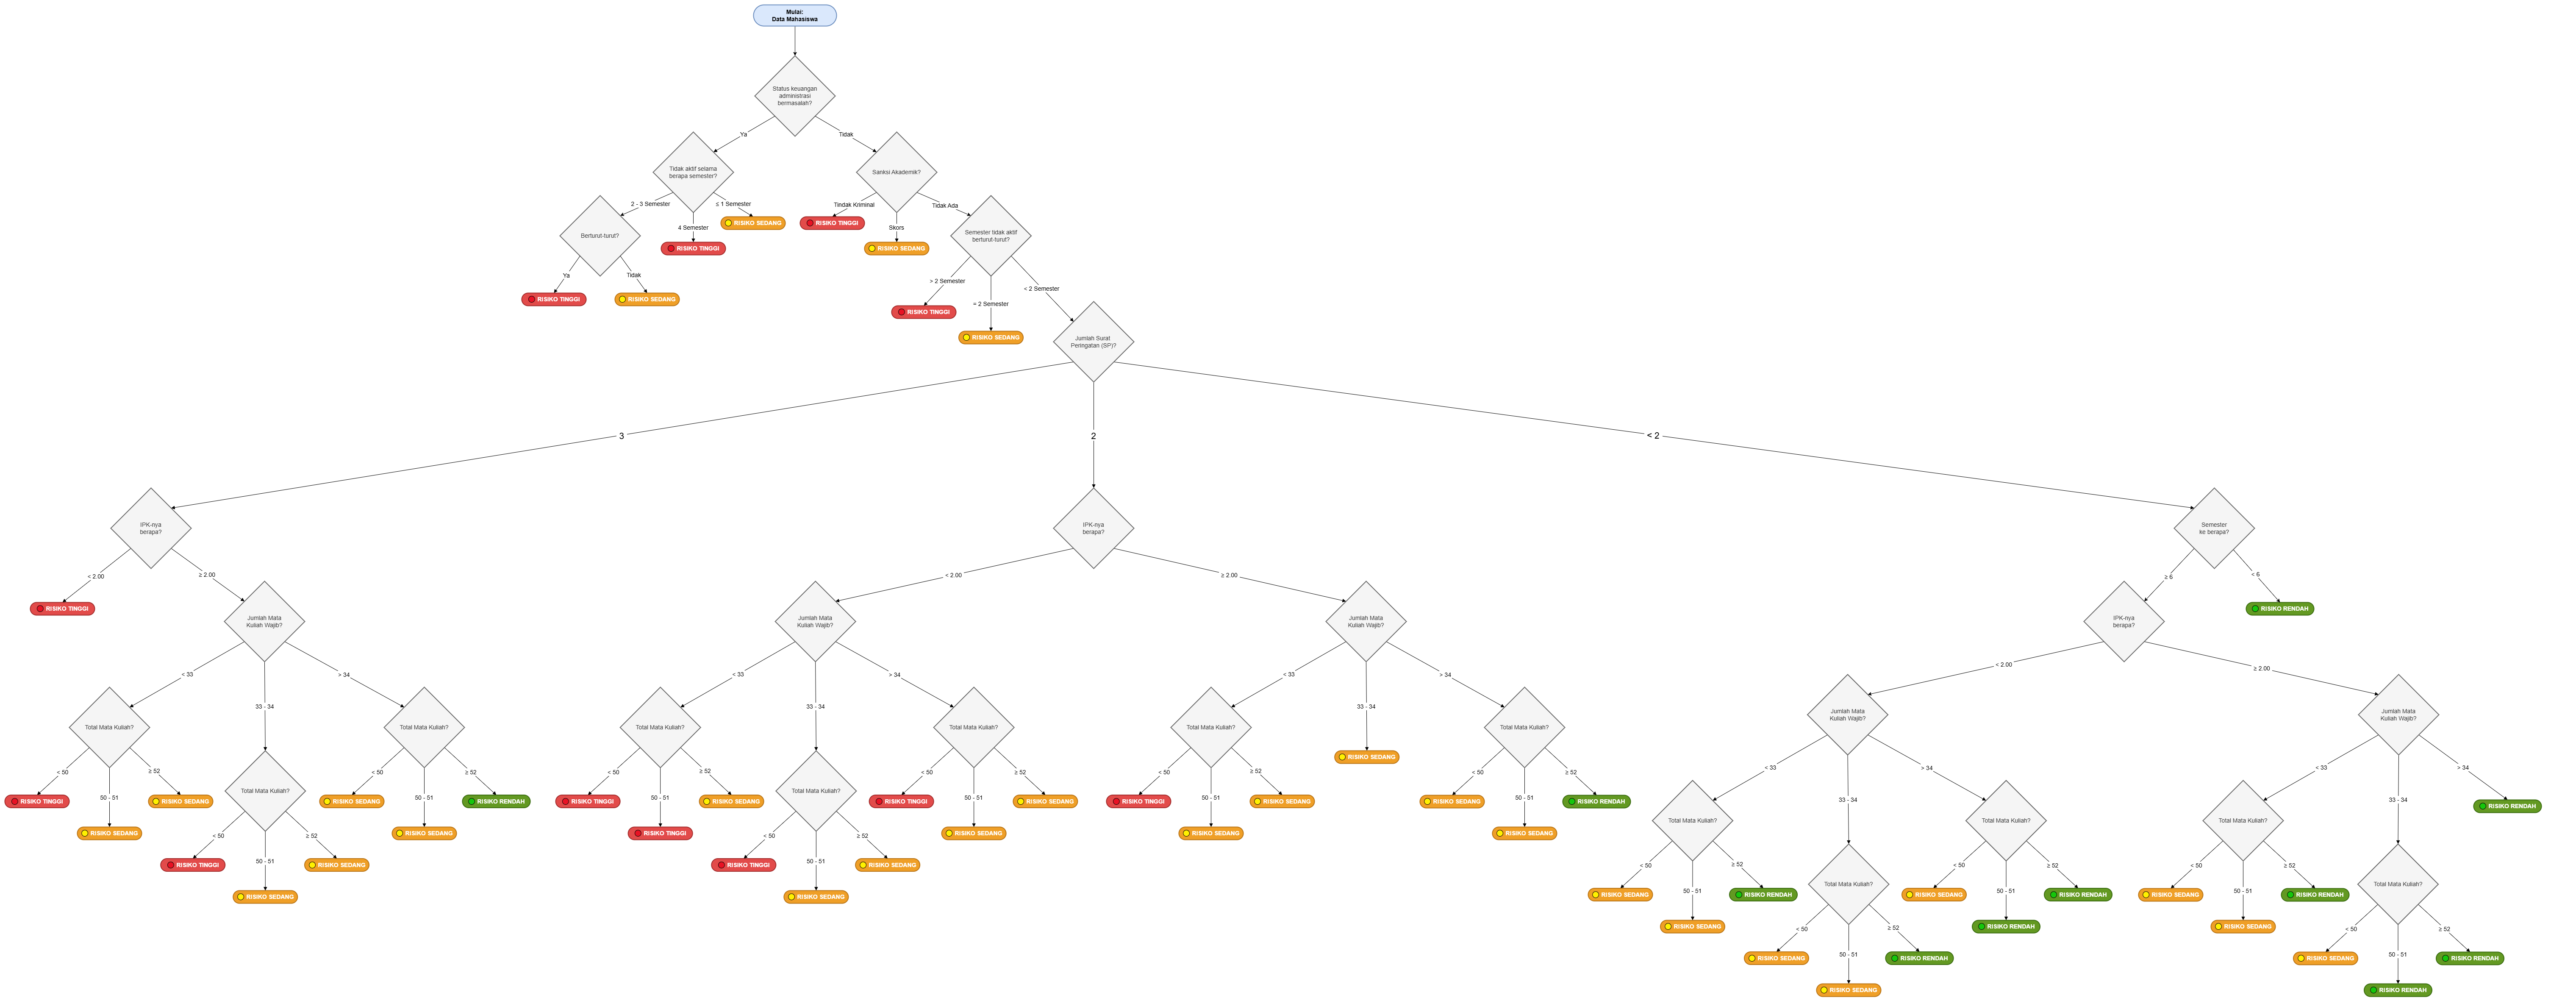
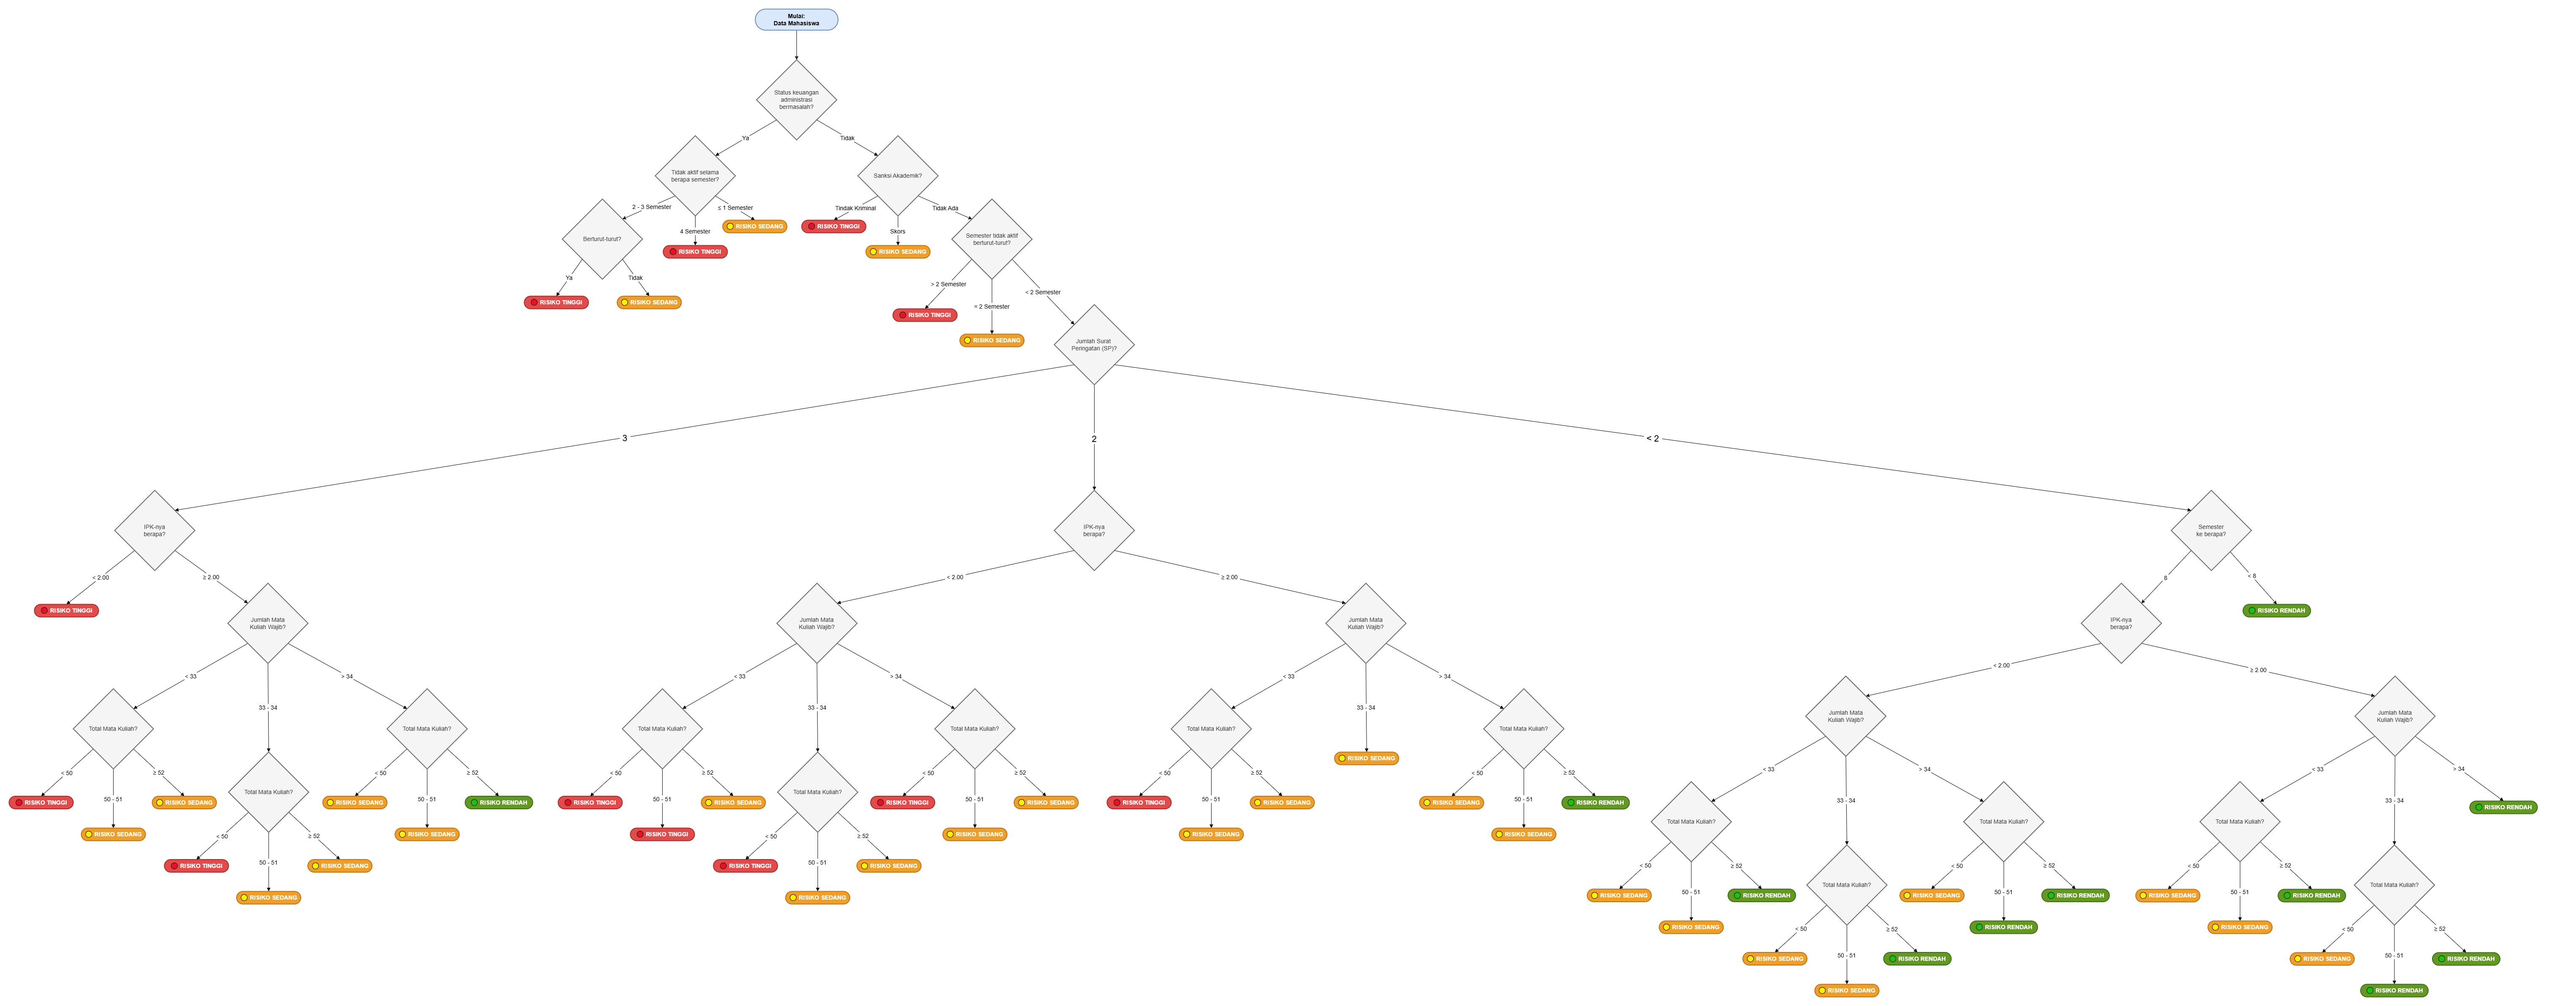
KBS Project

diff --git a/app/KBS_v.1/readme.md b/app/KBS_v.1/readme.md
@@ -5,7 +5,6 @@
 - Paulus Ungirwalu - 71231017
 
 ## Cara Penggunaan
-- Pastikan `rule_base.json` dan `app.py` berada di 1 folder yang sama
 - Buka Terminal di folder itu dan jalankan `python app.py`
 
 ## Metode